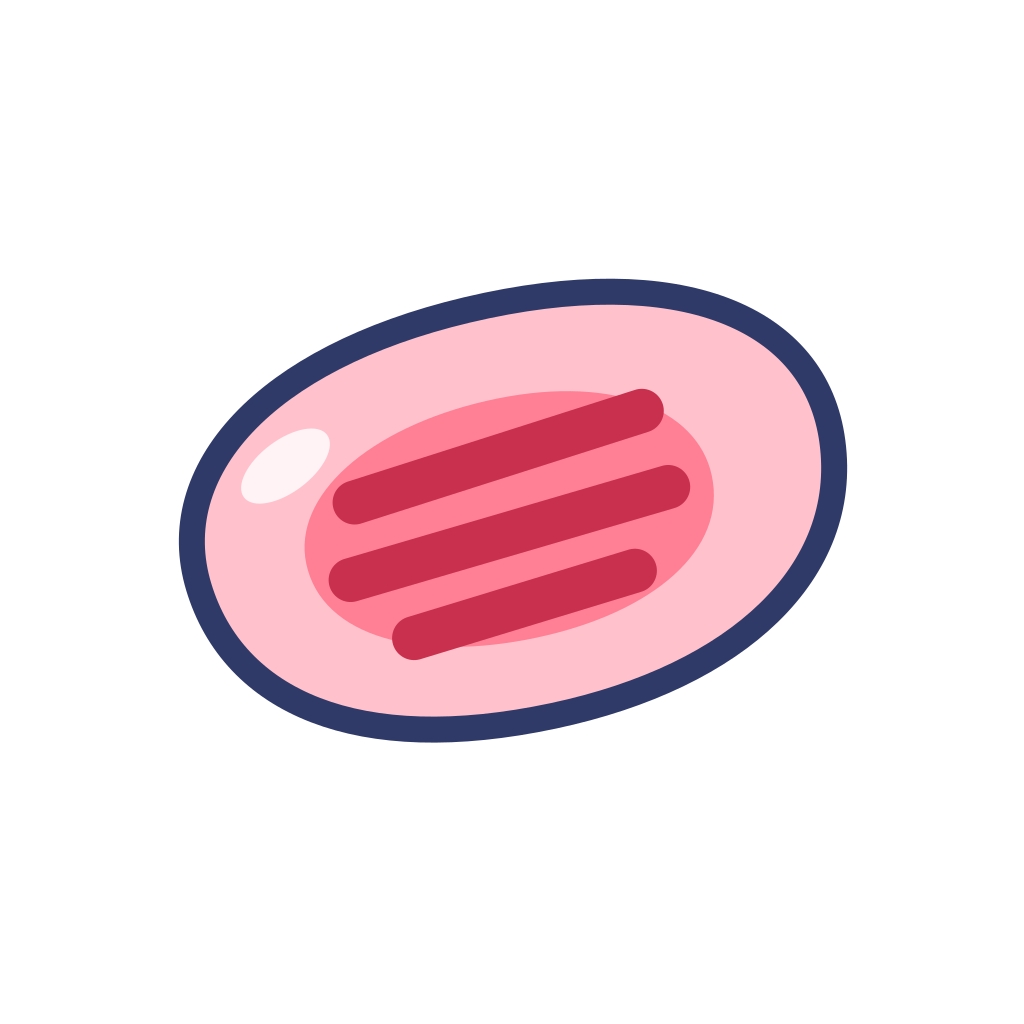
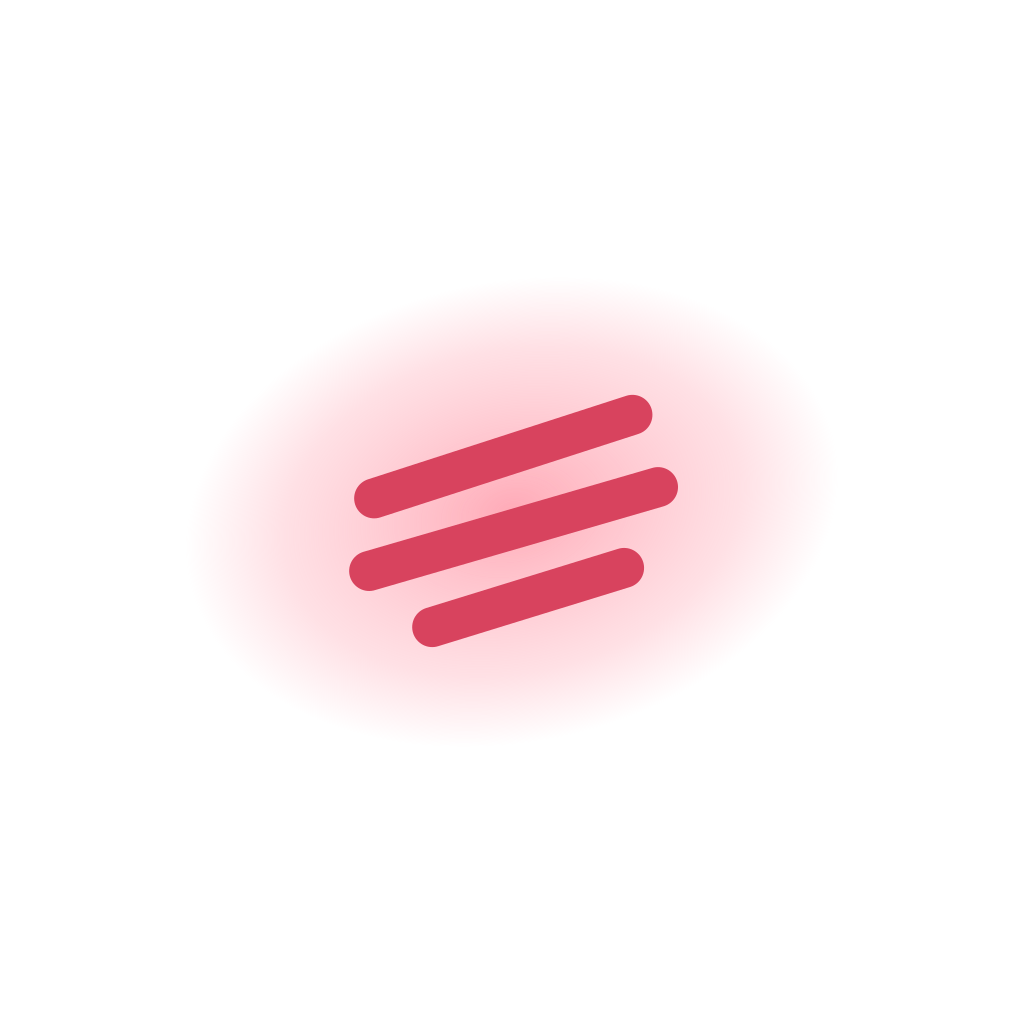
Bandage game: subtler boo-boo (soft scratches, no outline or pulse ring)

Changed region(s): [[0.1562, 0.25, 0.8438, 0.75]]

diff --git a/css/style.css b/css/style.css
@@ -420,10 +420,8 @@ button.piece{cursor:pointer}
 /* 傷口：中心對準算好的位置（用 margin 置中，動畫的 transform 才不會把它推歪） */
 .bandage-cut{position:absolute;width:calc(var(--pet,300px)*.2);height:calc(var(--pet,300px)*.2);margin:calc(var(--pet,300px)*-.1) 0 0 calc(var(--pet,300px)*-.1);
   display:grid;place-items:center;pointer-events:none}
-.bandage-cut>.art,.bandage-cut>.emoji{width:100%;height:100%;font-size:calc(var(--pet,300px)*.15);animation:wiggle 1.2s ease-in-out infinite}
-.bandage-cut::after{content:'';position:absolute;inset:-14%;border-radius:50%;border:4px solid #fff;box-shadow:0 0 0 3px #FF7F95;animation:cut-ring 1.4s ease-out infinite}
-@keyframes cut-ring{0%{transform:scale(.75);opacity:.95}100%{transform:scale(1.3);opacity:0}}
-.bandage-cut.healing::after,.bandage-cut.healed::after{display:none}
+.bandage-cut>.art,.bandage-cut>.emoji{width:100%;height:100%;font-size:calc(var(--pet,300px)*.15);animation:cut-throb 1.6s ease-in-out infinite}
+@keyframes cut-throb{0%,100%{transform:scale(1)}50%{transform:scale(1.08)}}
 .bandage-cut.healed>.art,.bandage-cut.healed>.emoji{width:150%;height:150%;max-width:none;flex:none;rotate:var(--r,0deg);animation:pop .35s}
 .bandage-fly{position:fixed;z-index:60;pointer-events:none;transition:transform .4s cubic-bezier(.3,.8,.4,1)}
 .bandage-fly>.art,.bandage-fly>.emoji{width:100%;height:100%;font-size:calc(var(--s)*.6)}

diff --git a/sw.js b/sw.js
@@ -1,5 +1,5 @@
 // Before every deploy run: node scripts/bump-sw.mjs
-const SW_VERSION = '20261028T065622770Z';
+const SW_VERSION = '20261028T091336288Z';
 const CACHE_PREFIX = 'ruby-pwa-';
 const CACHE_NAME = CACHE_PREFIX + SW_VERSION;
 const APP_SHELL = [
